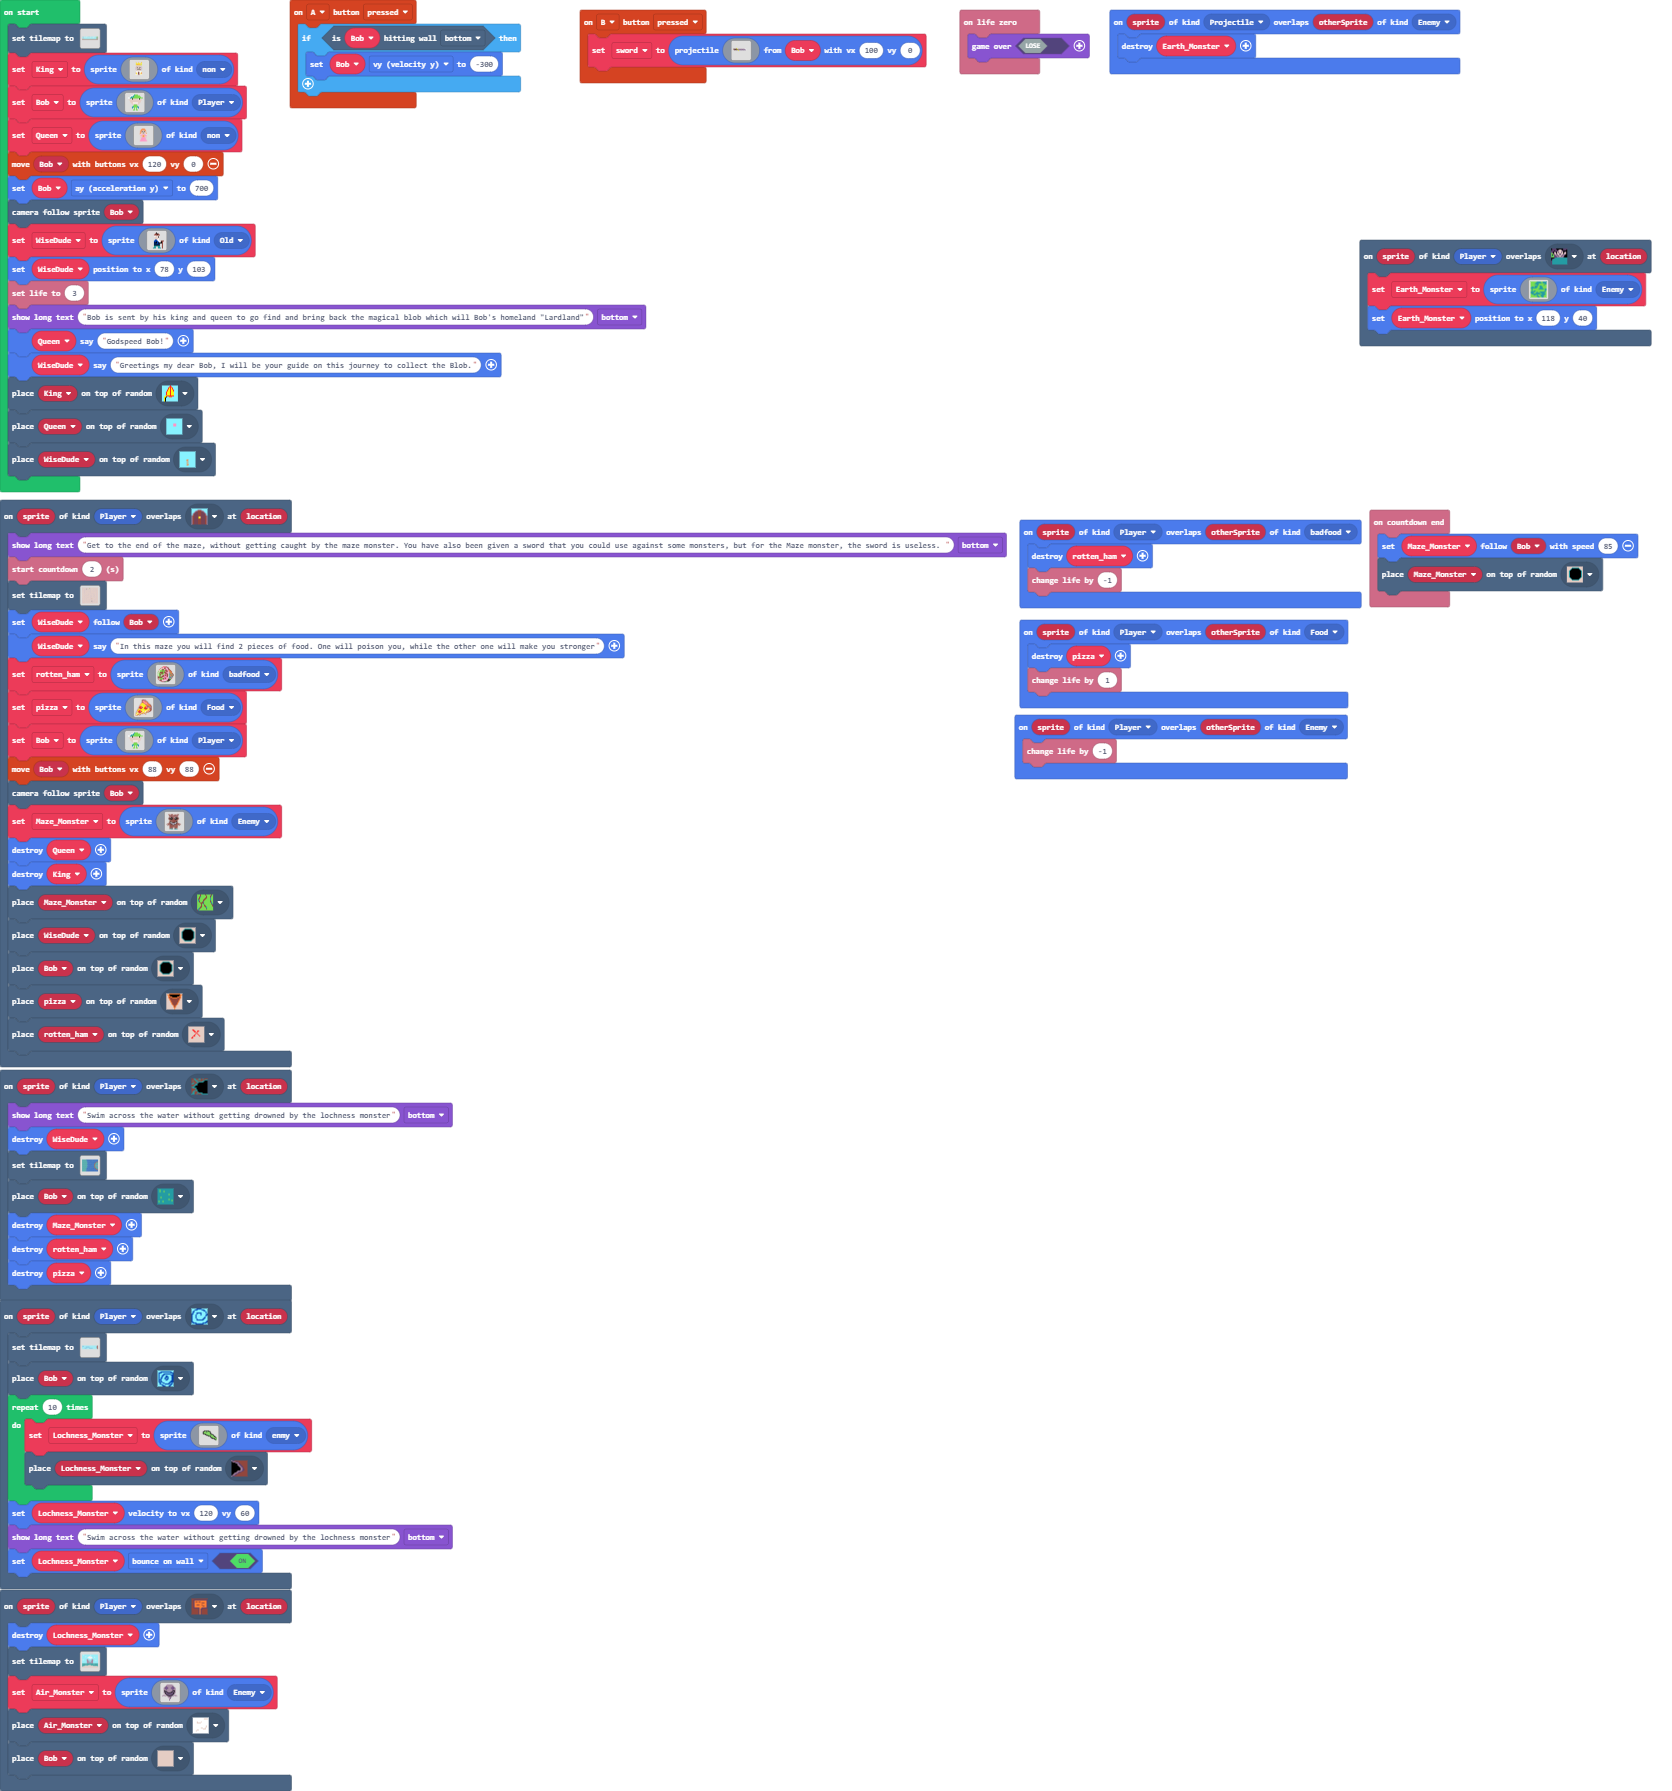
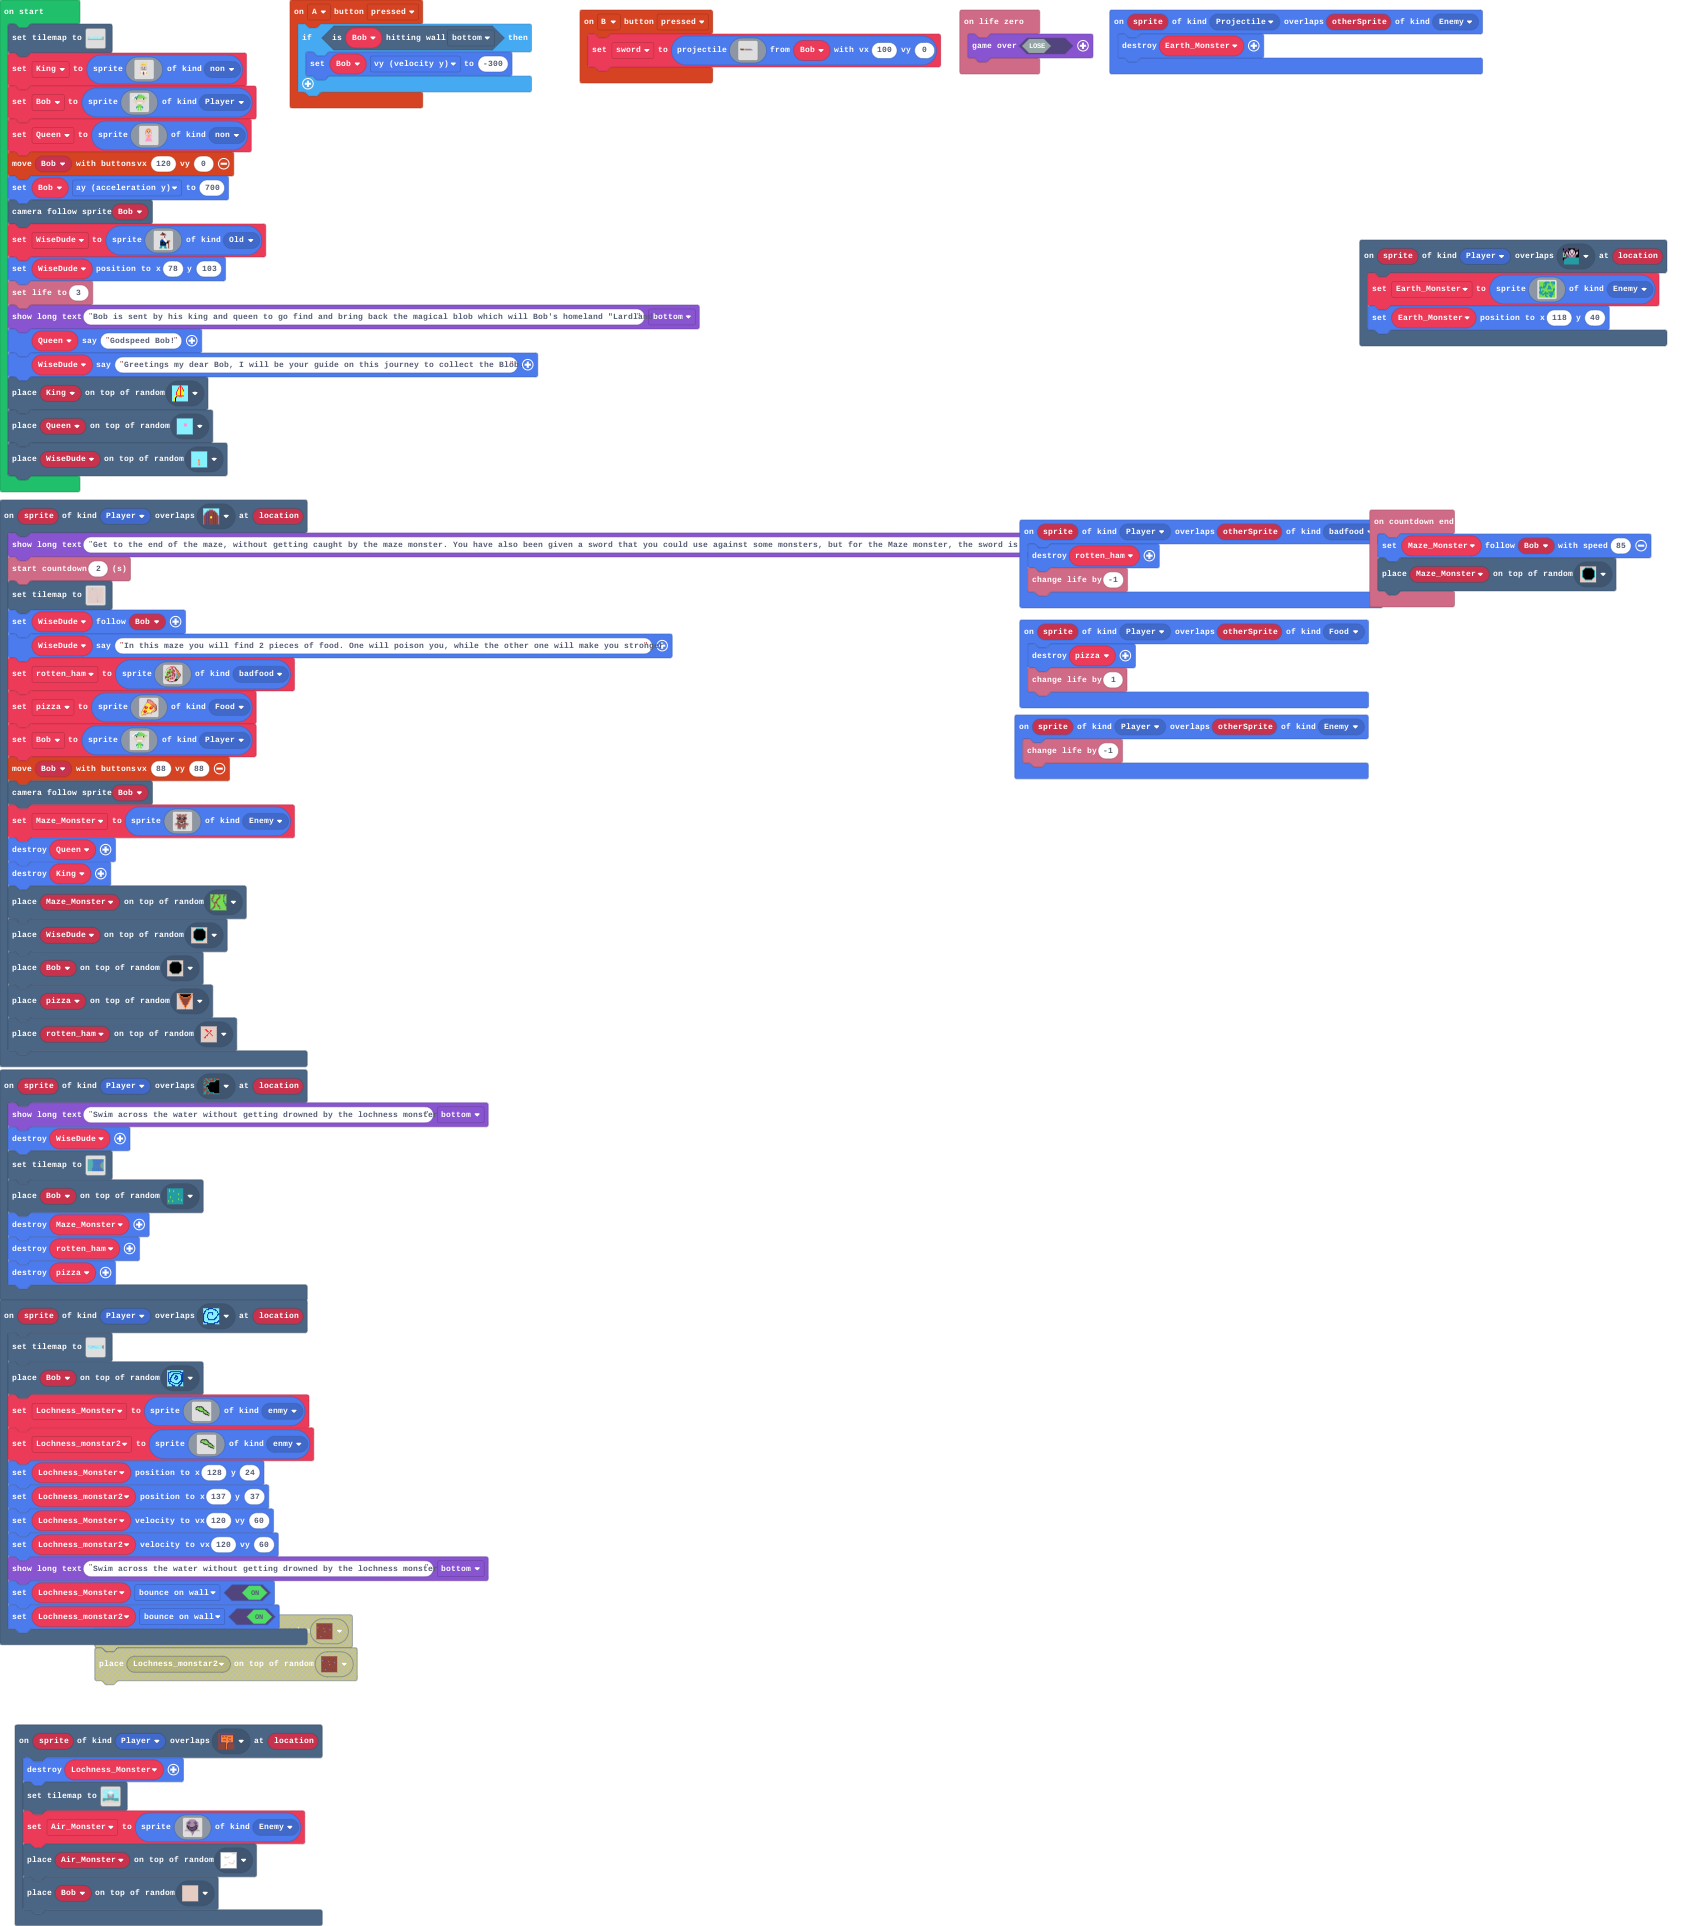
Update main.blocks, main.ts

Changed region(s): [[0.0, 0.0, 0.9952, 1.0], [0.3421, 0.0, 0.9019, 0.0614], [0.8086, 0.1228, 0.9952, 0.215]]

diff --git a/main.ts b/main.ts
@@ -338,30 +338,49 @@ scene.onOverlapTile(SpriteKind.Player, myTiles.tile64, function (sprite, locatio
         .............................................
         `, [myTiles.transparency16,myTiles.tile32,myTiles.tile42,myTiles.tile4,myTiles.tile65,myTiles.tile66,myTiles.tile67,myTiles.tile69], TileScale.Sixteen))
     tiles.placeOnRandomTile(Bob, myTiles.tile69)
-    for (let index = 0; index < 10; index++) {
-        Lochness_Monster = sprites.create(img`
-            .........................
-            .....ffffffff............
-            ....ff777c77fff..........
-            ...ff777cf7777f..........
-            ...f7777777777ff.........
-            ...ff7777777777f.........
-            ....ffff7777777fff.......
-            .......fff7777777fff.....
-            .........fff7777777f.....
-            ...........fffff7777ff...
-            ...............f77777ff..
-            ...............ff77777ff.
-            ................fff77777f
-            ..................ffff777
-            .....................fff7
-            .......................f7
-            `, SpriteKind.enmy)
-        tiles.placeOnRandomTile(Lochness_Monster, myTiles.tile67)
-    }
+    Lochness_Monster = sprites.create(img`
+        .........................
+        .....ffffffff............
+        ....ff777c77fff..........
+        ...ff777cf7777f..........
+        ...f7777777777ff.........
+        ...ff7777777777f.........
+        ....ffff7777777fff.......
+        .......fff7777777fff.....
+        .........fff7777777f.....
+        ...........fffff7777ff...
+        ...............f77777ff..
+        ...............ff77777ff.
+        ................fff77777f
+        ..................ffff777
+        .....................fff7
+        .......................f7
+        `, SpriteKind.enmy)
+    Lochness_monstar2 = sprites.create(img`
+        .........................
+        .....ffffffff............
+        ....ff777c77fff..........
+        ...ff777cf7777f..........
+        ...f7777777777ff.........
+        ...ff7777777777f.........
+        ....ffff7777777fff.......
+        .......fff7777777fff.....
+        .........fff7777777f.....
+        ...........fffff7777ff...
+        ...............f77777ff..
+        ...............ff77777ff.
+        ................fff77777f
+        ..................ffff777
+        .....................fff7
+        .......................f7
+        `, SpriteKind.enmy)
+    Lochness_Monster.setPosition(128, 24)
+    Lochness_monstar2.setPosition(137, 37)
     Lochness_Monster.setVelocity(120, 60)
+    Lochness_monstar2.setVelocity(120, 60)
     game.showLongText("Swim across the water without getting drowned by the lochness monster", DialogLayout.Bottom)
     Lochness_Monster.setFlag(SpriteFlag.BounceOnWall, true)
+    Lochness_monstar2.setFlag(SpriteFlag.BounceOnWall, true)
 })
 sprites.onOverlap(SpriteKind.Projectile, SpriteKind.Enemy, function (sprite, otherSprite) {
     Earth_Monster.destroy()
@@ -369,6 +388,7 @@ sprites.onOverlap(SpriteKind.Projectile, SpriteKind.Enemy, function (sprite, oth
 sprites.onOverlap(SpriteKind.Player, SpriteKind.Enemy, function (sprite, otherSprite) {
     info.changeLifeBy(-1)
 })
+let Lochness_monstar2: Sprite = null
 let Earth_Monster: Sprite = null
 let Maze_Monster: Sprite = null
 let pizza: Sprite = null
